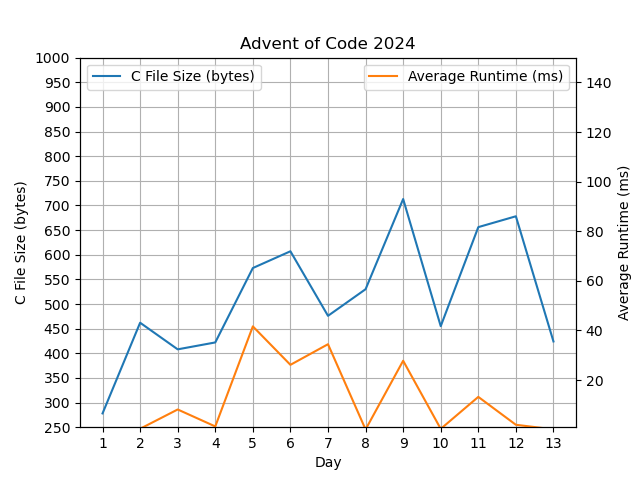
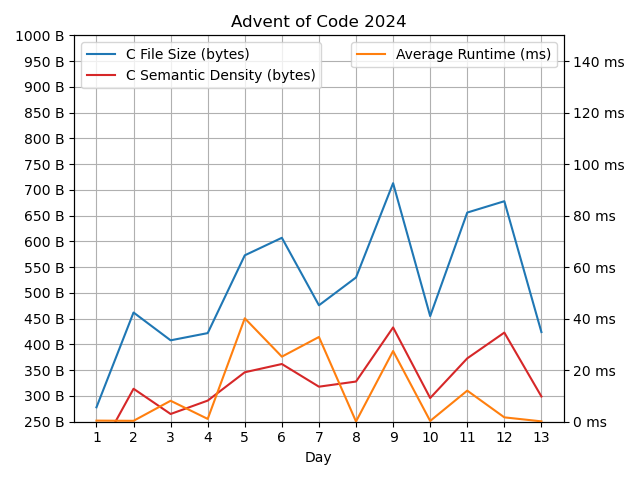
semantic density plot

Changed region(s): [[0.0, 0.0312, 1.0, 1.0]]

diff --git a/bench.py b/bench.py
@@ -2,6 +2,7 @@ import os
 import re
 import subprocess
 import matplotlib.pyplot as plt
+import zlib
 def get_average_runtime(executable_path):
   runtimes = []
   for _ in range(10):
@@ -9,29 +10,35 @@ def get_average_runtime(executable_path):
     runtime = float(re.search(r'Elapsed: ([0-9.]+) s', output).group(1))
     runtimes.append(runtime)
   return (sum(runtimes) / len(runtimes)) * 1000
+def sema_density(file_path):
+  with open(file_path, 'rb') as f:
+    return len(zlib.compress(f.read()))
 files = os.listdir()
 c_files = [f for f in files if re.match(r'd[0-9]+.c', f)]
 out_files = [f for f in files if re.match(r'd[0-9]+.out', f)]
 c_files.sort(); out_files.sort()
 ids = [int(re.match(r'd([0-9]+)\.', f).group(1)) for f in c_files]
 c_file_sizes = [os.path.getsize(f) for f in c_files]
+sema_densities = [sema_density(f) for f in c_files]
 out_file_runtimes = [get_average_runtime(f) for f in out_files]
 plt.figure()
 fig, ax1 = plt.subplots()
 ax2 = ax1.twinx()
 ax1.plot(ids, c_file_sizes, label='C File Size (bytes)', color='tab:blue')
-ax1.set_ylabel('C File Size (bytes)')
+ax1.plot(ids, sema_densities, label='C Semantic Density (bytes)', color='tab:red')
 ax1.set_xlabel('Day')
+ax1.yaxis.set_major_formatter(plt.FuncFormatter(lambda x, _: f'{x:.0f} B'))
 ax1.set_ylim([250, 1000])
 ax1.legend(loc='upper left')
 ax1.grid(True)
 ax1.yaxis.set_major_locator(plt.MultipleLocator(50))
 ax2.plot(ids, out_file_runtimes, label='Average Runtime (ms)', color='tab:orange')
-ax2.set_ylabel('Average Runtime (ms)')
-ax2.set_ylim([1, 150])
+ax2.yaxis.set_major_formatter(plt.FuncFormatter(lambda x, _: f'{x:.0f} ms'))
+ax2.set_ylim([0, 150])
 ax2.legend(loc='upper right')
 plt.title("Advent of Code 2024")
 plt.xticks(ids)
+plt.tight_layout()
 plt.savefig('bench.png')
 plt.close()
 print("Benchmarking complete. Results saved to bench.png")
